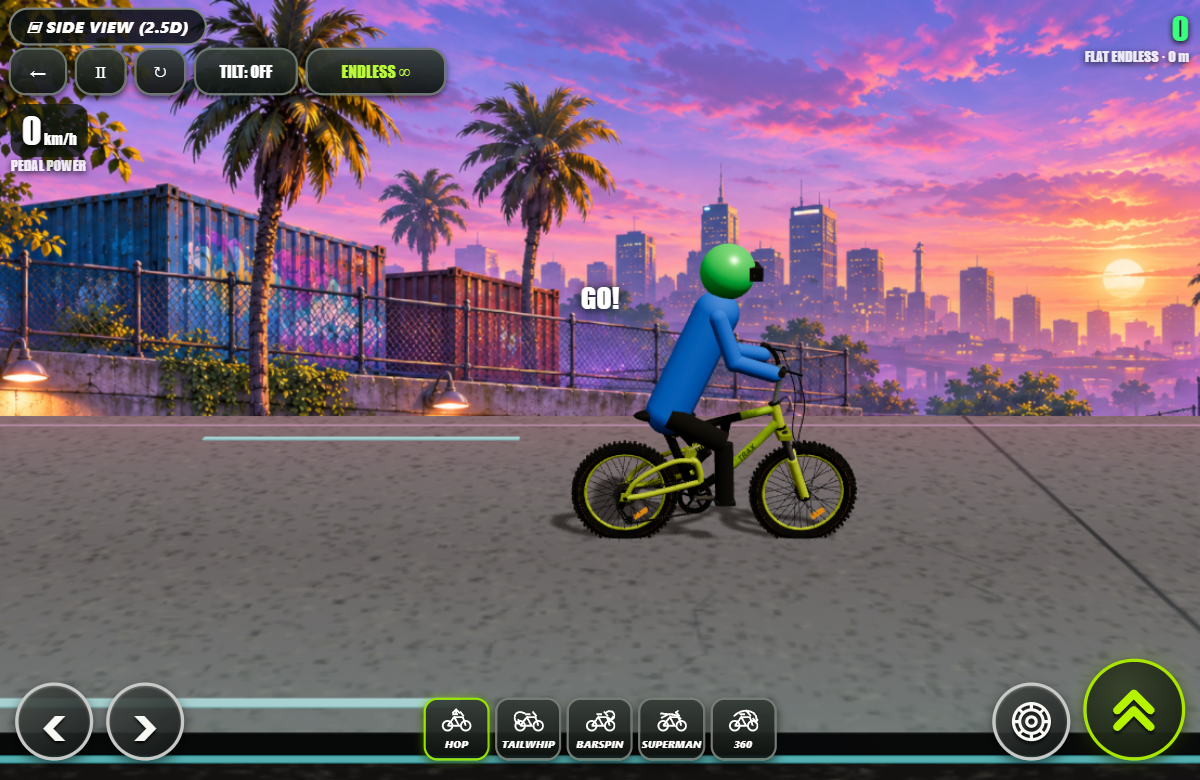
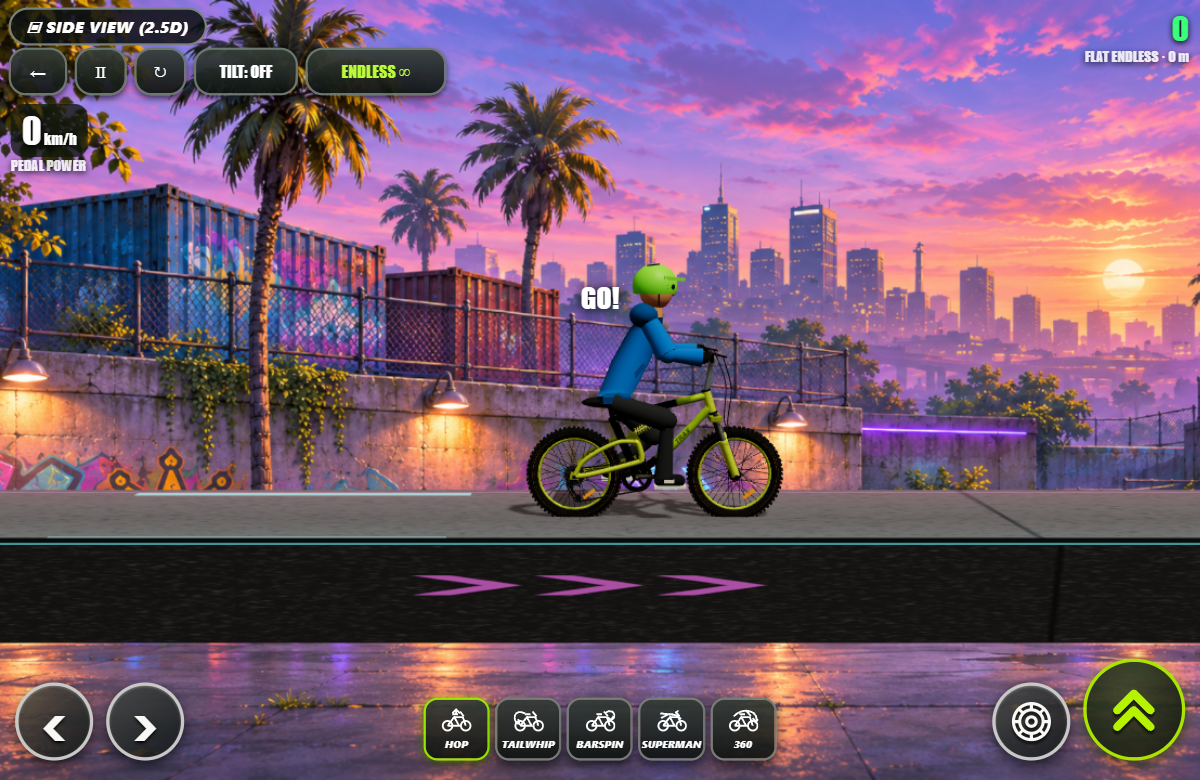
Improve articulated rider and narrow side-view track composition

diff --git a/ride.js b/ride.js
@@ -6,6 +6,7 @@ import {createBikeMotion} from './bike-motion.js';
 import {rideControlsMarkup,mountLeanControls} from './ride-controls.js';
 import {makeStuntRig} from './ride-tricks.js';
 import {roadLayers} from './ride-scenery.js';
+import {makeRider} from './rider-model.js';
 const COND_KEY = "wk-condition";
 export const loadCond = () => ({dirt:0,wear:{}}); // Repair/condition system paused at Chris's request.
 export const saveCond = (c) => localStorage.setItem(COND_KEY, JSON.stringify(c));
@@ -58,15 +59,15 @@ export function mountRide(el, { stats = {}, build = {}, onResult, onClose }) {
   const legacyScenery=[];let backdropLoaded=false;const backdrop=new T.TextureLoader().load('./icons/neon-skatepark-background.png',texture=>{texture.colorSpace=T.SRGBColorSpace;scene.background=texture;sky.visible=false;sunDisc.visible=false;legacyScenery.forEach(o=>o.visible=false);backdropLoaded=true;});
   // terrain
   const flat=(localStorage.getItem('wk-level')||'flat')==='flat',ter=flat?makeFlatTerrain():makeTerrain((build.frame || "bmx").length * 7 + 3),renderEnd=flat?500:ter.finish;const pts=ter.pts;
-  const shape = new T.Shape(); shape.moveTo(pts[0][0], -30); pts.forEach(([x, y]) => shape.lineTo(x, y)); shape.lineTo(pts[pts.length - 1][0], -30); shape.closePath();
-  const groundGeo = new T.ExtrudeGeometry(shape, { depth: 4, bevelEnabled: false }); groundGeo.translate(0, 0, -2);
+  const shape = new T.Shape(); shape.moveTo(pts[0][0],pts[0][1]-.45);pts.forEach(([x,y])=>shape.lineTo(x,y));[...pts].reverse().forEach(([x,y])=>shape.lineTo(x,y-.45));shape.closePath();
+  const groundGeo = new T.ExtrudeGeometry(shape, { depth: 1.4, bevelEnabled: false }); groundGeo.translate(0, 0, -.7);
   const ground = new T.Mesh(groundGeo, new T.MeshStandardMaterial({ color: "#292d39", roughness: 1 })); ground.receiveShadow = true; scene.add(ground);
-  const strip = []; pts.forEach(([x, y]) => strip.push(x, y + 0.02, 2, x, y + 0.02, -2)); const sg = new T.BufferGeometry(); sg.setAttribute("position", new T.Float32BufferAttribute(strip, 3));
+  const strip = []; pts.forEach(([x, y]) => strip.push(x, y + 0.02, .7, x, y + 0.02, -.7)); const sg = new T.BufferGeometry(); sg.setAttribute("position", new T.Float32BufferAttribute(strip, 3));
   const idx = []; for (let i = 0; i < pts.length - 1; i++) { const a = i * 2; idx.push(a, a + 2, a + 1, a + 1, a + 2, a + 3); } sg.setIndex(idx); sg.computeVertexNormals();
   const layers=roadLayers(T,scene,pts,sg);
   const dirtTop = new T.Mesh(sg, new T.MeshStandardMaterial({ map:layers.topMap,roughness: .65, side: T.DoubleSide })); dirtTop.receiveShadow = true; scene.add(dirtTop);
-  let flatMarkers;if(flat){flatMarkers=new T.InstancedMesh(new T.BoxGeometry(2,.006,.055),new T.MeshStandardMaterial({color:'#7ed4ed',emissive:'#174b63',emissiveIntensity:.5,roughness:.7}),82);const marker=new T.Object3D();for(let i=0;i<82;i++){marker.position.set(-200+(i%41)*10,.028,i<41?-1.5:1.5);marker.updateMatrix();flatMarkers.setMatrixAt(i,marker.matrix)}scene.add(flatMarkers);}
-  ter.puddles.forEach(([a, b]) => { const m = new T.Mesh(new T.PlaneGeometry(b - a, 3.6), new T.MeshStandardMaterial({ color: "#3d6f8f", roughness: 0.05, metalness: 0.3, transparent: true, opacity: 0.85 })); m.rotation.x = -Math.PI / 2; m.position.set((a + b) / 2, ter.h((a + b) / 2) + 0.04, 0); scene.add(m); });
+  let flatMarkers;if(flat){flatMarkers=new T.InstancedMesh(new T.BoxGeometry(2,.006,.055),new T.MeshStandardMaterial({color:'#7ed4ed',emissive:'#174b63',emissiveIntensity:.5,roughness:.7}),82);const marker=new T.Object3D();for(let i=0;i<82;i++){marker.position.set(-200+(i%41)*10,.028,i<41?-.53:.53);marker.updateMatrix();flatMarkers.setMatrixAt(i,marker.matrix)}scene.add(flatMarkers);}
+  ter.puddles.forEach(([a, b]) => { const m = new T.Mesh(new T.PlaneGeometry(b - a, 1.3), new T.MeshStandardMaterial({ color: "#3d6f8f", roughness: 0.05, metalness: 0.3, transparent: true, opacity: 0.85 })); m.rotation.x = -Math.PI / 2; m.position.set((a + b) / 2, ter.h((a + b) / 2) + 0.04, 0); scene.add(m); });
   const flag = (x, col, label) => { const g = new T.Group(); const y = ter.h(x); const pole = new T.Mesh(new T.CylinderGeometry(0.04, 0.04, 2.6), new T.MeshStandardMaterial({ color: "#ddd" })); pole.position.set(x, y + 1.3, -1.6);
     const f = new T.Mesh(new T.PlaneGeometry(0.9, 0.55), new T.MeshStandardMaterial({ color: col, side: T.DoubleSide })); f.position.set(x + 0.45, y + 2.3, -1.6); g.add(pole, f); g.userData.label = label; scene.add(g); return g; };
   ter.checkpoints.slice(1).forEach((x) => flag(x, "#39ff7a", "CP")); if(!flat){flag(ter.finish, "#ffffff", "FINISH"); flag(ter.finish, "#111111", "FINISH").position.z = 3.2;}
@@ -93,26 +94,7 @@ export function mountRide(el, { stats = {}, build = {}, onResult, onClose }) {
   const forkG = bike.getObjectByName("wk:suspension"), forkY = forkG?.position.y || 0;
   const mechanical=createBikeMotion(bike,build,find);
   const stuntRig=makeStuntRig(T,bike,A,find(build.motor)?.kind);
-  // rider (simple low-poly, leans with input)
-  const rider = new T.Group(); body.add(rider); const skin = new T.MeshStandardMaterial({ color: "#2b7bff", roughness: 0.7 }), dark = new T.MeshStandardMaterial({ color: "#1a1a1a" }), helm = new T.MeshStandardMaterial({ color: "#39ff7a", metalness: 0.3, roughness: 0.3 });
-  const off = (p) => new T.Vector3(p[0] + bike.position.x, p[1] + bike.position.y, 0);
-  const hip = off([A.seatTop[0], A.seatTop[1] + 0.1]), hand = off([A.headTop[0] - 0.04, A.headTop[1] + 0.2]), foot = off(A.bb);
-  const limb = (a, b, r, m) => { const d = b.clone().sub(a), me = new T.Mesh(new T.CapsuleGeometry(r, d.length(), 4, 8), m); me.position.copy(a).addScaledVector(d, 0.5); me.quaternion.setFromUnitVectors(new T.Vector3(0, 1, 0), d.normalize()); me.castShadow = true; return me; };
-  const torsoG = new T.Group(); torsoG.position.copy(hip); rider.add(torsoG);
-  const shoulder = new T.Vector3(0.22, 0.48, 0); torsoG.add(limb(new T.Vector3(), shoulder, 0.11, skin));
-  const head = new T.Mesh(new T.SphereGeometry(0.13, 16, 12), helm); head.position.copy(shoulder).add(new T.Vector3(0.05, 0.2, 0)); torsoG.add(head);
-  const visor = new T.Mesh(new T.BoxGeometry(0.06, 0.06, 0.2), dark); visor.position.copy(head.position).add(new T.Vector3(0.12, 0, 0)); torsoG.add(visor);
-  const arms = new T.Group(); torsoG.add(arms);
-  const legs = new T.Group(); rider.add(legs);const legMeshes=[];let supermanPose=0,hopQueued=false;
-  for(const side of [-1,1]){const upper=new T.Mesh(new T.CylinderGeometry(.055,.055,1,12),dark),lower=new T.Mesh(new T.CylinderGeometry(.045,.045,1,12),dark);legs.add(upper,lower);legMeshes.push({side,upper,lower});}
-  const poseSegment=(mesh,a,b)=>{const d=b.clone().sub(a);mesh.position.copy(a).addScaledVector(d,.5);mesh.scale.y=d.length();mesh.quaternion.setFromUnitVectors(new T.Vector3(0,1,0),d.normalize());};
-  const setLegs=()=>{const pedalMode=!!bike.getObjectByName('cranks:rotor'),angle=mechanical?.state.crankPhase||0;
-    for(const {side,upper,lower} of legMeshes){const h=hip.clone().setZ(side*.075),f=pedalMode?off([A.bb[0]+Math.cos(angle)*side*.14,A.bb[1]+Math.sin(angle)*side*.14]).setZ(side*.12):foot.clone().add(new T.Vector3(-.03,-.025,side*.145));
-      f.lerp(new T.Vector3(hip.x-.55,hip.y+.03,side*.12),supermanPose);const d=f.clone().sub(h),D=d.length(),u=d.normalize(),along=D/2,k=h.clone().addScaledVector(u,along).addScaledVector(new T.Vector3(-u.y,u.x,0),Math.sqrt(Math.max(.001,.29**2-along**2))*(1-supermanPose*.85));poseSegment(upper,h,k);poseSegment(lower,k,f);}
-  };setLegs();
-  const setArms = () => { arms.clear(); const sh = shoulder.clone(); const hl = hand.clone().sub(torsoG.position).applyAxisAngle(new T.Vector3(0, 0, 1), -torsoG.rotation.z);
-    for (const z of [-0.18, 0.18]) { const el2 = sh.clone().lerp(hl, 0.5).add(new T.Vector3(-0.05, -0.08, z * 0.7)); arms.add(limb(sh.clone().setZ(z * 0.6), el2, 0.045, skin), limb(el2, hl.clone().setZ(z), 0.04, skin)); } };
-  setArms();
+  const riderModel=makeRider(T,body,bike,A,mechanical);riderModel.update();let supermanPose=0,hopQueued=false;
   // particles: one instanced pool (roost, landing dust, puddle splash, scrape sparks)
   const NP = 260, pm = new T.InstancedMesh(new T.BoxGeometry(0.06, 0.06, 0.06), new T.MeshBasicMaterial({ color: "#fff" }), NP); pm.userData.wkFx = 1; pm.frustumCulled = false; scene.add(pm);
   const parts = Array.from({ length: NP }, () => ({ life: 0 })); let pi = 0; const o3 = new T.Object3D(), col = new T.Color();
@@ -189,14 +171,14 @@ export function mountRide(el, { stats = {}, build = {}, onResult, onClose }) {
     stuntRig.restore();
     if(mechanical)mechanical.update({distance:s.vx*dt,frontDistance:s.burnout&&P.driveAxle==='front'?dt*Math.min(18,4+P.power/1500):s.vx*dt,rearDistance:s.burnout&&P.driveAxle!=='front'?dt*Math.min(18,4+P.power/1500):s.vx*dt,driveDistance:s.burnout?(find(build.motor)?.kind==="mid"?dt*Math.min(18,4+P.power/1500):0):inp.throttle>0||find(build.motor)?.nopedal||s.reversing?s.vx*dt:0,rearCompression:build.shock?s.comp[0]||0:0,frontCompression:s.comp[1]||0,travelR:P.travelR,travelF:P.travelF});
     else wheels.forEach((ws, i) => ws.forEach(([w, y0]) => (w.position.y = y0 + (s.comp[i] || 0) * (i ? P.travelF : P.travelR) * 0.8)));
-    supermanPose=s.stunt?.name==="superman"?Math.sin(Math.PI*Math.min(1,s.stunt.elapsed/s.stunt.duration)):0;torsoG.rotation.z=inp.lean*.25+(s.crashed?.6:0)-supermanPose*.9;setArms();setLegs();stuntRig.pose(s.stunt);
+    supermanPose=s.stunt?.name==="superman"?Math.sin(Math.PI*Math.min(1,s.stunt.elapsed/s.stunt.duration)):0;riderModel.update({lean:inp.lean,crashed:!!s.crashed,superman:supermanPose});stuntRig.pose(s.stunt);
     // checkpoints / finish
     while (cpI + 1 < ter.checkpoints.length && s.x > ter.checkpoints[cpI + 1]) { cpI++; lastCP = ter.checkpoints[cpI] + 1; msg = "CHECKPOINT " + cpI; msgT = 1.2; }
     if (!finished && s.x > ter.finish) { finished = true; msg = `FINISH! SCORE ${Math.round(s.score).toLocaleString()} · +$${Math.round(s.score / 10).toLocaleString()}`; msgT = 99; maxScore = Math.max(maxScore, s.score); report(); }
     maxScore = Math.max(maxScore, s.score);
     // camera: side-on follow, zooms out with speed
     const sp = Math.hypot(s.vx, s.vy), dist = 6.5 + Math.min(6, sp * 0.35), cx = (s.crashed ? pivot.position.x : s.x) + Math.min(3, s.vx * 0.15);
-    const cameraTarget=new T.Vector3(cx,(s.crashed?pivot.position.y:s.y)+1.2+dist*.12,dist);if(cam.position.distanceTo(cameraTarget)>50)cam.position.copy(cameraTarget);else cam.position.lerp(cameraTarget,.12);cam.lookAt(cam.position.x,cam.position.y-.9-dist*.08,0);
+    const cameraTarget=new T.Vector3(cx,(s.crashed?pivot.position.y:s.y)+.45+dist*.025,dist);if(cam.position.distanceTo(cameraTarget)>50)cam.position.copy(cameraTarget);else cam.position.lerp(cameraTarget,.12);cam.lookAt(cam.position.x,cam.position.y-.65,0);
     sun.position.set(s.x + 4, s.y + 10, 6); sun.target.position.set(s.x, s.y, 0);
     sky.position.x = cam.position.x; sunDisc.position.x = cam.position.x + 40;
     // HUD
@@ -209,7 +191,7 @@ export function mountRide(el, { stats = {}, build = {}, onResult, onClose }) {
     if(flat){const tile=Math.floor(s.x/100)*100;ground.position.x=tile;dirtTop.position.x=tile;layers.foreground.position.x=tile;flatMarkers.position.x=tile;sky.position.x=s.x;sunDisc.position.x=s.x+40;hud.prog.style.display='none';hud.best.textContent='FLAT ENDLESS · '+Math.floor(s.odo)+' m';}
     R.render(scene, cam); };
   raf = requestAnimationFrame(frame);
-  globalThis.__WK_RIDE_STATE__ = () => ({ s, P, dirt, wear, flips, finished, inp, ter, cameraX:cam.position.x,groundX:ground.position.x,backdropLoaded,sceneryLayers:['background','road','foreground'],paused,stunt:s.stunt?{...s.stunt}:null,supermanPose,stuntVisual:stuntRig.state(),controls:leanControls.state(),mechanical:mechanical?.state });
+  globalThis.__WK_RIDE_STATE__ = () => ({ s, P, dirt, wear, flips, finished, inp, ter, cameraX:cam.position.x,groundX:ground.position.x,rider:riderModel.state(),backdropLoaded,sceneryLayers:['background','road','foreground'],paused,stunt:s.stunt?{...s.stunt}:null,supermanPose,stuntVisual:stuntRig.state(),controls:leanControls.state(),mechanical:mechanical?.state });
   function stop(save=true) {if(disposed)return;disposed=true;if(save)report();releaseControls();cancelAnimationFrame(raf); removeEventListener("keydown", kd); removeEventListener("keyup", ku); removeEventListener("deviceorientation", ori);removeEventListener('blur',releaseControls);document.removeEventListener('visibilitychange',visibility);for(const type of blockedGestures)el.removeEventListener(type,blockBrowserGesture);el.removeAttribute('data-wk-ride-surface');el.removeAttribute('data-wk-paused'); backdrop.dispose();smoke.geometry.dispose();smoke.material.dispose();R.dispose();R.forceContextLoss();el.innerHTML="";}
   return ()=>{replacementStop?.();stop();};
 }

diff --git a/rider-model.js b/rider-model.js
@@ -1,0 +1,43 @@
+// Reusable articulated rider. Named pieces work from side and future chase cameras.
+export function makeRider(T,body,bike,A,mechanical){
+ const rider=new T.Group();rider.name='wk:rider';body.add(rider);
+ const material=(color,roughness=.85)=>new T.MeshStandardMaterial({color,roughness});
+ const blue=material('#1676d8'),cuff=material('#095295'),pants=material('#252a31'),black=material('#131b20'),sole=material('#d6dedb'),skin=material('#c9916c'),lime=material('#71df21',.48);
+ const mesh=(name,geometry,mat,parent=rider)=>{const m=new T.Mesh(geometry,mat);m.name='rider:'+name;m.castShadow=true;parent.add(m);return m};
+ const off=p=>new T.Vector3(p[0]+bike.position.x,p[1]+bike.position.y,0);
+ const hip=off([A.seatTop[0],A.seatTop[1]+.085]),hand=off([A.headTop[0]-.04,A.headTop[1]+.2]),foot=off(A.bb),shoulder=new T.Vector3(.20,.43,0);
+ const torso=new T.Group();torso.name='rider:torso';torso.position.copy(hip);rider.add(torso);
+ // Shaped shoulders, waist and hem instead of a single capsule body.
+ const vertices=[],indices=[],rings=[[0,.085,.095],[.06,.095,.11],[.22,.105,.135],[.37,.09,.155],[.43,.075,.145],[.46,.06,.105]],segments=16;
+ for(const [y,depth,width]of rings)for(let i=0;i<segments;i++){const a=i/segments*Math.PI*2;vertices.push(y/shoulder.y*shoulder.x+Math.cos(a)*depth,y,Math.sin(a)*width)}
+ for(let j=0;j<rings.length-1;j++)for(let i=0;i<segments;i++){const a=j*segments+i,b=j*segments+(i+1)%segments,c=a+segments,d=b+segments;indices.push(a,b,c,b,d,c)}
+ for(let i=1;i<segments-1;i++){indices.push(0,i+1,i);const n=(rings.length-1)*segments;indices.push(n,n+i,n+i+1)}
+ const geo=new T.BufferGeometry();geo.setAttribute('position',new T.Float32BufferAttribute(vertices,3));geo.setIndex(indices);geo.computeVertexNormals();mesh('hoodie',geo,blue,torso);
+ const box=(name,size,mat,position,parent=torso)=>{const m=mesh(name,new T.BoxGeometry(...size),mat,parent);m.position.set(...position);return m};
+ box('hoodie-hem',[.15,.035,.21],cuff,[.025,.018,0]);
+ for(const side of [-1,1]){const seam=box('pocket-seam'+side,[.008,.08,.006],cuff,[.15,.17,side*.07]);seam.rotation.z=-.7;const cord=box('hood-cord'+side,[.006,.095,.006],sole,[.27,.34,side*.035]);cord.rotation.z=.3}
+ const hood=mesh('hood',new T.SphereGeometry(.105,16,10),cuff,torso);hood.scale.set(.75,.65,1.05);hood.position.copy(shoulder).add(new T.Vector3(-.025,.035,0));
+ const neck=mesh('neck',new T.CylinderGeometry(.042,.045,.08,12),skin,torso);neck.position.copy(shoulder).add(new T.Vector3(.03,.065,0));
+ const headCenter=shoulder.clone().add(new T.Vector3(.04,.17,0)),head=mesh('face',new T.SphereGeometry(.103,16,12),skin,torso);head.scale.set(.88,1,.86);head.position.copy(headCenter);
+ const helmet=mesh('helmet-shell',new T.SphereGeometry(.12,20,12,0,Math.PI*2,0,Math.PI*.61),lime,torso);helmet.position.copy(headCenter).add(new T.Vector3(-.006,.022,0));helmet.scale.z=.94;
+ const brim=box('helmet-peak',[.11,.018,.18],lime,[headCenter.x+.095,headCenter.y+.06,0]);brim.rotation.z=-.08;
+ const nose=mesh('nose',new T.SphereGeometry(.023,8,6),skin,torso);nose.position.copy(headCenter).add(new T.Vector3(.083,-.015,0));nose.scale.set(1,.8,.65);
+ const glasses=mesh('goggles',new T.CapsuleGeometry(.021,.115,4,10),black,torso);glasses.rotation.x=Math.PI/2;glasses.position.copy(headCenter).add(new T.Vector3(.077,.018,0));
+ for(const side of [-1,1]){box('helmet-strap'+side,[.008,.105,.009],black,[headCenter.x+.01,headCenter.y-.026,side*.081]);const vent=box('helmet-vent'+side,[.065,.007,.018],black,[headCenter.x-.015,headCenter.y+.135,side*.039]);vent.rotation.z=.1}
+ function segment(name,r1,r2,mat,parent=rider){return mesh(name,new T.CylinderGeometry(r1,r2,1,12),mat,parent)}
+ function pose(m,a,b){const d=b.clone().sub(a);m.position.copy(a).addScaledVector(d,.5);m.scale.y=d.length();m.quaternion.setFromUnitVectors(new T.Vector3(0,1,0),d.normalize())}
+ const arms=[],legs=[];
+ for(const side of [-1,1]){
+  const upper=segment('sleeve-upper'+side,.061,.05,blue,torso),lower=segment('sleeve-lower'+side,.049,.034,blue,torso),elbow=mesh('elbow'+side,new T.SphereGeometry(.049,10,8),blue,torso),glove=mesh('glove'+side,new T.SphereGeometry(.043,10,8),black,torso);glove.scale.set(1,.8,.8);arms.push({side,upper,lower,elbow,glove});
+  const thigh=segment('trousers-thigh'+side,.065,.051,pants),shin=segment('trousers-shin'+side,.05,.033,pants),knee=mesh('knee'+side,new T.SphereGeometry(.052,10,8),pants),shoe=new T.Group();shoe.name='rider:shoe'+side;rider.add(shoe);
+  const top=mesh('shoe-upper'+side,new T.CapsuleGeometry(.035,.095,4,10),black,shoe);top.rotation.z=Math.PI/2;top.scale.z=1.05;top.position.set(.035,-.015,0);box('shoe-sole'+side,[.17,.016,.078],sole,[.035,-.044,0],shoe);box('shoe-stripe'+side,[.055,.018,.081],sole,[.03,-.011,0],shoe);legs.push({side,thigh,shin,knee,shoe});
+ }
+ let count=0;rider.traverse(o=>{if(o.isMesh)count++});
+ return {root:rider,update({lean=0,crashed=false,superman=0}={}){
+  torso.rotation.z=lean*.23+(crashed?.6:0)-superman*.9;
+  const localHand=hand.clone().sub(torso.position).applyAxisAngle(new T.Vector3(0,0,1),-torso.rotation.z);
+  for(const a of arms){const sh=shoulder.clone().setZ(a.side*.135),h=localHand.clone().setZ(a.side*.18),el=sh.clone().lerp(h,.5).add(new T.Vector3(-.045,-.07,a.side*.025));pose(a.upper,sh,el);pose(a.lower,el,h);a.elbow.position.copy(el);a.glove.position.copy(h)}
+  const pedal=!!bike.getObjectByName('cranks:rotor'),angle=mechanical?.state.crankPhase||0;
+  for(const l of legs){const h=hip.clone().setZ(l.side*.075),f=pedal?off([A.bb[0]+Math.cos(angle)*l.side*.14,A.bb[1]+Math.sin(angle)*l.side*.14]).setZ(l.side*.12):foot.clone().add(new T.Vector3(-.03,-.025,l.side*.145));f.lerp(new T.Vector3(hip.x-.55,hip.y+.03,l.side*.12),superman);const d=f.clone().sub(h),distance=d.length(),u=d.normalize(),k=h.clone().addScaledVector(u,distance/2).addScaledVector(new T.Vector3(-u.y,u.x,0),Math.sqrt(Math.max(.001,.31**2-(distance/2)**2))*(1-superman*.85));pose(l.thigh,h,k);pose(l.shin,k,f);l.knee.position.copy(k);l.shoe.position.copy(f);l.shoe.rotation.z=-superman*.35}
+ },state:()=>({meshes:count,geometryCount:new Set([...arms.flatMap(a=>[a.upper.geometry,a.lower.geometry]),...legs.flatMap(l=>[l.thigh.geometry,l.shin.geometry])]).size,style:'hoodie-helmet-trainers'})};
+}

diff --git a/sw.js b/sw.js
@@ -1,5 +1,5 @@
-const CACHE = "wk-v18-workshop-ride-3";
-const SHELL = ["./sticker-trace.js", "./ride-scenery.js", "./ride-tricks.js", "./category-icons.js", "./ride-controls.js", "./icons/neon-skatepark-background.png", "./builder-mode.js", "./", "./index.html", "./app.js", "./stickers-dd.js", "./parts3d.js", "./fitment.js", "./partmodels.js", "./thumbs.js", "./ride.js", "./ride-physics.js", "./detail.js", "./frame-geometry.js", "./trax-bike.js", "./trax-suspension.js", "./bike-motion.js", "./modular-catalogue.js", "./modular-render.js", "./vendor/DecalGeometry.js", "./manifest.webmanifest", "./vendor/three.module.js", "./vendor/OrbitControls.js", "./vendor/RoomEnvironment.js", "./icons/icon-192.png", "./icons/icon-512.png", "./icons/maskable-512.png", "./icons/apple-touch-icon-180.png", "./stickers/wombat-scooter.png", "./stickers/wombat-emoto.png", "./stickers/wombat-footpath.png", "./stickers/holo-badge.png", "./stickers/eshay.png", "./stickers/baked-wombat.png"];
+const CACHE = "wk-v18-rider-side-1";
+const SHELL = ["./rider-model.js", "./sticker-trace.js", "./ride-scenery.js", "./ride-tricks.js", "./category-icons.js", "./ride-controls.js", "./icons/neon-skatepark-background.png", "./builder-mode.js", "./", "./index.html", "./app.js", "./stickers-dd.js", "./parts3d.js", "./fitment.js", "./partmodels.js", "./thumbs.js", "./ride.js", "./ride-physics.js", "./detail.js", "./frame-geometry.js", "./trax-bike.js", "./trax-suspension.js", "./bike-motion.js", "./modular-catalogue.js", "./modular-render.js", "./vendor/DecalGeometry.js", "./manifest.webmanifest", "./vendor/three.module.js", "./vendor/OrbitControls.js", "./vendor/RoomEnvironment.js", "./icons/icon-192.png", "./icons/icon-512.png", "./icons/maskable-512.png", "./icons/apple-touch-icon-180.png", "./stickers/wombat-scooter.png", "./stickers/wombat-emoto.png", "./stickers/wombat-footpath.png", "./stickers/holo-badge.png", "./stickers/eshay.png", "./stickers/baked-wombat.png"];
 self.addEventListener("install", (e) => { e.waitUntil(caches.open(CACHE).then((c) => c.addAll(SHELL)).then(() => self.skipWaiting())); });
 self.addEventListener("activate", (e) => { e.waitUntil(caches.keys().then((ks) => Promise.all(ks.filter((k) => k !== CACHE).map((k) => caches.delete(k)))).then(() => self.clients.claim())); });
 self.addEventListener("fetch", (e) => {

diff --git a/ride-scenery.js b/ride-scenery.js
@@ -11,7 +11,7 @@ export function roadLayers(T,scene,pts,topGeometry){
  }
  const topMap=texture(),uv=[];for(const [x]of pts)uv.push(x/8,1,x/8,0);topGeometry.setAttribute('uv',new T.Float32BufferAttribute(uv,2));
  const group=new T.Group();group.name='wk:foreground';const positions=[],coords=[],indices=[];
- pts.forEach(([x,y],i)=>{positions.push(x,y+.25,2.015,x,y-1.4,2.015);coords.push(x/8,1,x/8,0);if(i<pts.length-1){const a=i*2;indices.push(a,a+1,a+2,a+1,a+3,a+2)}});
+ pts.forEach(([x,y],i)=>{positions.push(x,y+.08,.715,x,y-.44,.715);coords.push(x/8,1,x/8,0);if(i<pts.length-1){const a=i*2;indices.push(a,a+1,a+2,a+1,a+3,a+2)}});
  const geo=new T.BufferGeometry();geo.setAttribute('position',new T.Float32BufferAttribute(positions,3));geo.setAttribute('uv',new T.Float32BufferAttribute(coords,2));geo.setIndex(indices);geo.computeVertexNormals();
  const edge=new T.Mesh(geo,new T.MeshStandardMaterial({map:texture(true),roughness:.85,side:T.DoubleSide}));edge.name='wk:near-concrete-edge';edge.receiveShadow=true;group.add(edge);scene.add(group);
  return {topMap,foreground:group};

diff --git a/CODEX-HANDOFF.md b/CODEX-HANDOFF.md
@@ -5,13 +5,14 @@ Updated 5 Nov 2026. This is the single current instruction page. Replace the res
 ## Resume
 
 - Branch: `wip/v18-detail`; completed releases also go to `main`.
-- Live: https://wheelie-king.pages.dev. Runtime: `wk-v18-workshop-ride-3`. Check Git for the current HEAD.
+- Live: https://wheelie-king.pages.dev. Runtime: `wk-v18-rider-side-1`. Check Git for the current HEAD.
 - Builder: Simple (default) and Advanced share the wider two-column rail/inline previews. Small screens have All Parts; sticker tools wrap. Bikes is separate from Kits (seven complete matched conversion packages, bundle thumbnails). Styles contains colour choices, with nested Back history. Automatic removals are quiet. Rotation pause persists. Compact stats retain km/h, W, Nm, km, kg and stunt labels. Repairs remain paused; infinite coins stays on.
 - Mechanics: fork sliders/dropouts follow the real leg axis; upside-down forks move their lower stanchions, with crowns/uppers fixed. Nine-bike pivot/shock/brake/fender relationships remain checked.
 - Riding: reference-style lean circles, centre trick row, right brake-disc/green accelerator, pause/reset/endless/tilt. Static neon sunset background, textured 3D road and near concrete foreground. Current side camera remains; full redesign/chase camera is future work. Round-tyre footprint contacts smooth sharp joins; travel stops handle landings. Monos use responsive counterlean/brake and a ground-dependent fender scrape, without a fixed 93-degree lock. Reverse, driven-wheel electric burnouts and trick combinations remain.
 - Stickers: upload → DRAW CUTOUT → trace/tap around object → Use cutout → existing border/rating/APPLY TO BIKE flow. Clear/undo/cancel and transparent alpha are supported. Ratings and adult PIN gating remain.
 - Validation: all seven release checks passed (builder, workshop/cutout, landings, multi-touch controls, nine-bike motion, TRAX mechanics, modular fitment). A separate sharp-join ride check passed. Publish with `npm run deploy`, which verifies every runtime file hash. Real Android/iPad feel and performance remain unverified.
-- Next: Chris tests this batch on the public app. Full scene/chase-camera target remains deferred in [visual-direction.md](docs/visual-direction.md). Keep one concise resume here.
+- Rider: `rider-model.js` has shaped blue hoodie, helmet/face/gloves, trousers and trainers, articulated limbs and persistent meshes (no per-frame arm geometry rebuild). Side camera is shallower; road narrowed to 1.4 m and shallow track ribbon/foreground rather than a full-screen slab. Ride checks and visual inspection cover this follow-up.
+- Next: Chris is supplying a larger list. The reference pictures remain the exact visual target. Plan a smooth roughly 0.4-second side/chase camera orbit in one shared environment, mostly straight track with gentle bends/automatic side steering, and long scenery sections blended without obvious repetition. Those larger changes are not implemented yet; see [visual-direction.md](docs/visual-direction.md).
 
 ## Working rules
 

diff --git a/docs/visual-direction.md b/docs/visual-direction.md
@@ -22,3 +22,11 @@
 6. Rework riding collisions and exaggerated wheelies: easy to raise until the fender scrapes, while still requiring balance. Do not retain a locked upright angle as the final behaviour.
 
 The workshop release includes these fixes, rotation pause, labelled stats, separate Bikes/complete Kits, sticker tracing, and road/foreground layers. Full scene and chase-camera work remains deferred.
+
+## Camera and scenery clarification — 5 Nov 2026
+
+Chris wants the supplied images treated as the actual composition/style target: a narrow side-on road strip, stylised blue hoodie/green helmet rider, and an over-the-shoulder chase view of the same world. Use one predominantly straight track with gentle bends, not a circuit. Side mode follows the track automatically; steering input should not be required. Switch views through a smooth, snappy physical camera pan (initial target about 0.4 seconds), keeping rider and track continuous.
+
+The long environment should develop through similar scenes without obvious repeated wallpaper; blend overlapping scenery sections and keep near/middle/far depth consistent through camera movement. A flat static backdrop cannot deliver the reference chase view. Build a shared 3D track/near environment with distant scenery behind it before enabling the camera switch. No claim of exact visual parity yet. Chris has more requirements to supply before that larger batch.
+
+Current immediate change: shaped hoodie/helmet/face/gloves/trousers/trainers with persistent articulated meshes; narrower visible side-view road and shallower camera pitch. Camera switching, gentle-bend path following and long scenery transitions are still pending the larger batch.

diff --git a/CHANGELOG.md b/CHANGELOG.md
@@ -1,5 +1,12 @@
 # Wheelie King: Outback — CHANGELOG (live PWA at https://wheelie-king.pages.dev)
 
+## Articulated rider and side-view composition — 5 Nov 2026
+
+- Replaced the capsule person with a shaped blue hoodie, hood/pockets/cuffs, lime vented helmet/peak/straps, face/goggles, gloves, trousers, knees and trainers/soles. Jointed limbs follow pedals and existing lean/Superman poses. Arm meshes are reused instead of regenerated every frame.
+- Narrowed the visible side-view road, shallowed camera pitch and reduced the near track thickness so the road no longer fills half the view.
+- Recorded the reference-matching side/chase target, smooth snappy pan, gentle-bend track/automatic steering, and non-repeating long scenery transitions. Those are the next larger batch, not claimed implemented.
+- Cache: `wk-v18-rider-side-1`. Landings and real Chromium multi-touch/ride/trick/pause checks passed; current rider and scene visually inspected.
+
 ## Workshop, cutouts, fork contacts and arcade balance — 5 Nov 2026
 
 - Small-window All Parts access, wrapping sticker tools, nested style-menu Back, colours only under Styles, quiet automatic removals, persistent rotation pause and readable compact stat units.
